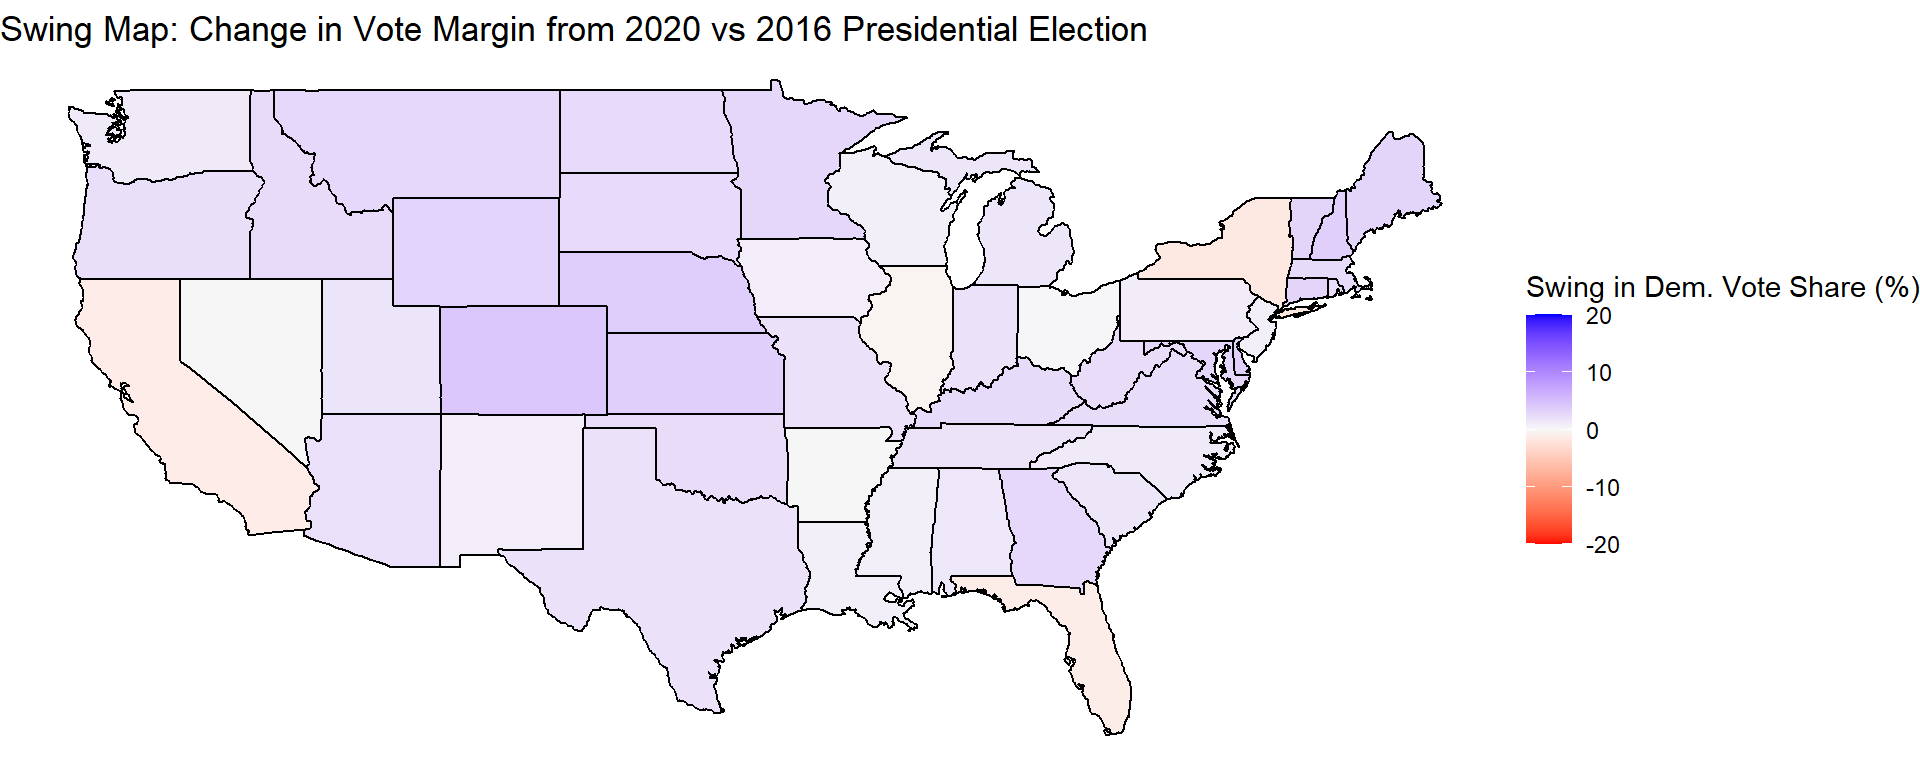
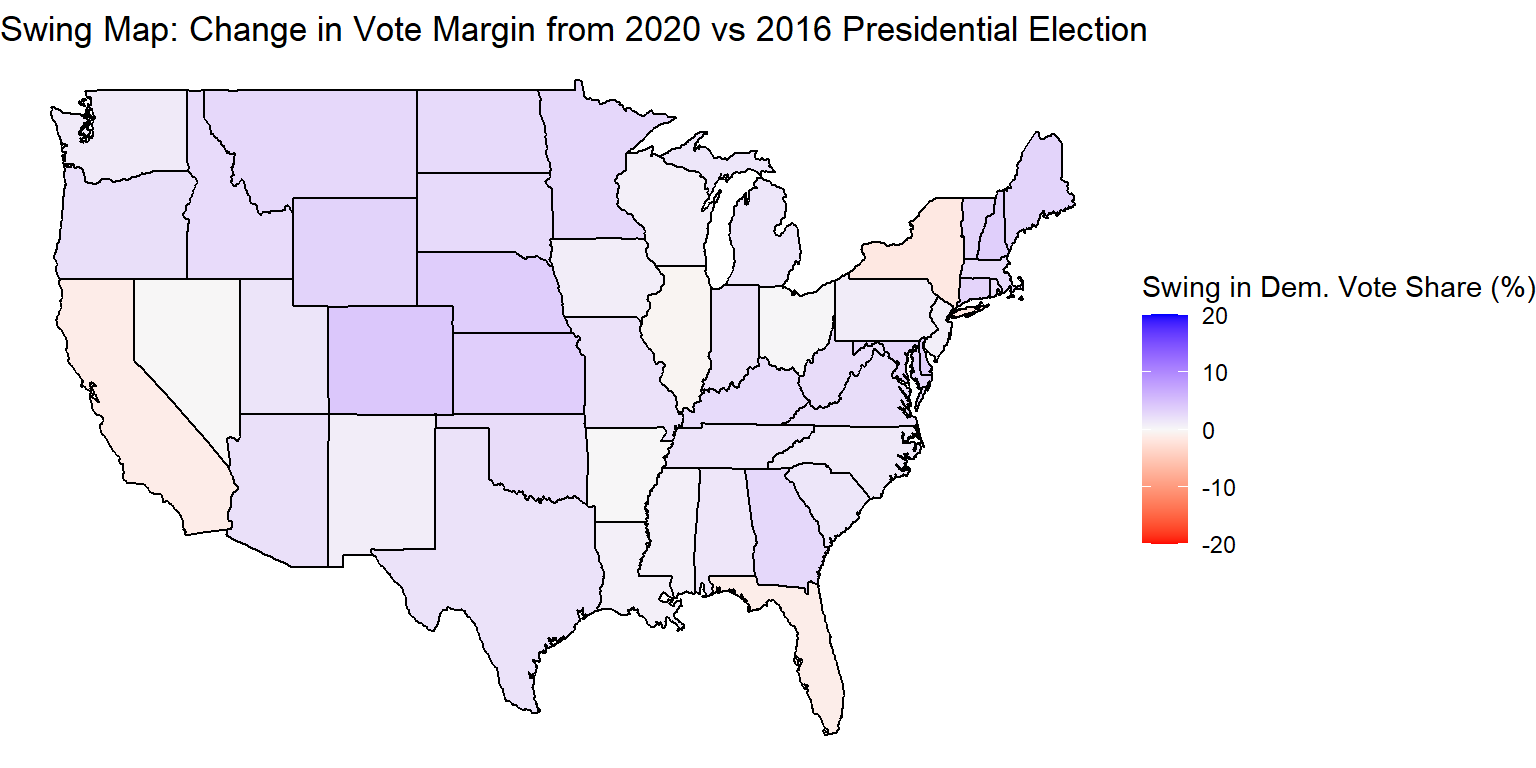
width

diff --git a/public/post/2024/09/09/post-1/index.html b/public/post/2024/09/09/post-1/index.html
@@ -43,7 +43,7 @@
 <p>Pennsylvania, Wisconsin, Nevada, and Michigan have consistently been swing states throughout this period, including the most recent election. Conversely, Arizona, Georgia, and North Carolina have shifted from being reliably Republican to competitive. Florida is difficult to gauge; while its vote margins suggest swing state status, recent election results resemble those of more consistently red states like Iowa or Texas. Therefore, we&rsquo;ll reserve judgment until further analysis of more recent maps.</p>
 <h2 id="swing-map-1-2016-vs-2020">Swing Map #1: 2016 vs. 2020</h2>
 <p>This map examines the change in vote margins in each state between 2016 and 2020. As expected, most of the map is blue since a Republican won in 2016 but lost in 2020. However, a few noteworthy trends emerge. First, while much of the country shifted towards the Democrats, Florida moved further towards the Republicans. In my opinion, this shift is significant enough to remove Florida&rsquo;s status as a swing state. Florida moved towards a Republican candidate even as Republicans underperformed nationwide.</p>
-<img src="https://example.org/post/2024/09/09/post-1/index_files/figure-html/unnamed-chunk-11-1.png" width="960" />
+<img src="https://example.org/post/2024/09/09/post-1/index_files/figure-html/unnamed-chunk-11-1.png" width="768" />
 <p>Another interesting point is that New York and California, two Democratic strongholds, also trended Republican. These two states represent major electoral college strongholds for the Democrats. Many argue that recent trends make it unlikely for Democrats to lose the popular vote but still win the Electoral College. While this is mainly true, if these states continue to trend Republican, it could become possible in future elections.</p>
 <h2 id="swing-map-2-2012-vs-2020">Swing Map #2: 2012 vs. 2020</h2>
 <p>While the map comparing vote margins from 2016 to 2020 is interesting, there isn’t much detailed analysis to draw from it, as most of the country swung in favor of the party shift. A more fascinating comparison comes from looking at the 2012 and 2020 presidential elections, where Democratic candidates won both times. However, it’s important to note that the 2012 election was a more decisive victory for the Democrats. Obama won 126 more electoral votes than Romney, while Biden only won 74 more than Trump.</p>

diff --git a/content/post/2024-09-06-post-1/index.md b/content/post/2024-09-06-post-1/index.md
@@ -52,7 +52,7 @@ Pennsylvania, Wisconsin, Nevada, and Michigan have consistently been swing state
 
 This map examines the change in vote margins in each state between 2016 and 2020. As expected, most of the map is blue since a Republican won in 2016 but lost in 2020. However, a few noteworthy trends emerge. First, while much of the country shifted towards the Democrats, Florida moved further towards the Republicans. In my opinion, this shift is significant enough to remove Florida's status as a swing state. Florida moved towards a Republican candidate even as Republicans underperformed nationwide.
 
-<img src="{{< blogdown/postref >}}index_files/figure-html/unnamed-chunk-11-1.png" width="960" />
+<img src="{{< blogdown/postref >}}index_files/figure-html/unnamed-chunk-11-1.png" width="768" />
 
 Another interesting point is that New York and California, two Democratic strongholds, also trended Republican. These two states represent major electoral college strongholds for the Democrats. Many argue that recent trends make it unlikely for Democrats to lose the popular vote but still win the Electoral College. While this is mainly true, if these states continue to trend Republican, it could become possible in future elections.
 
